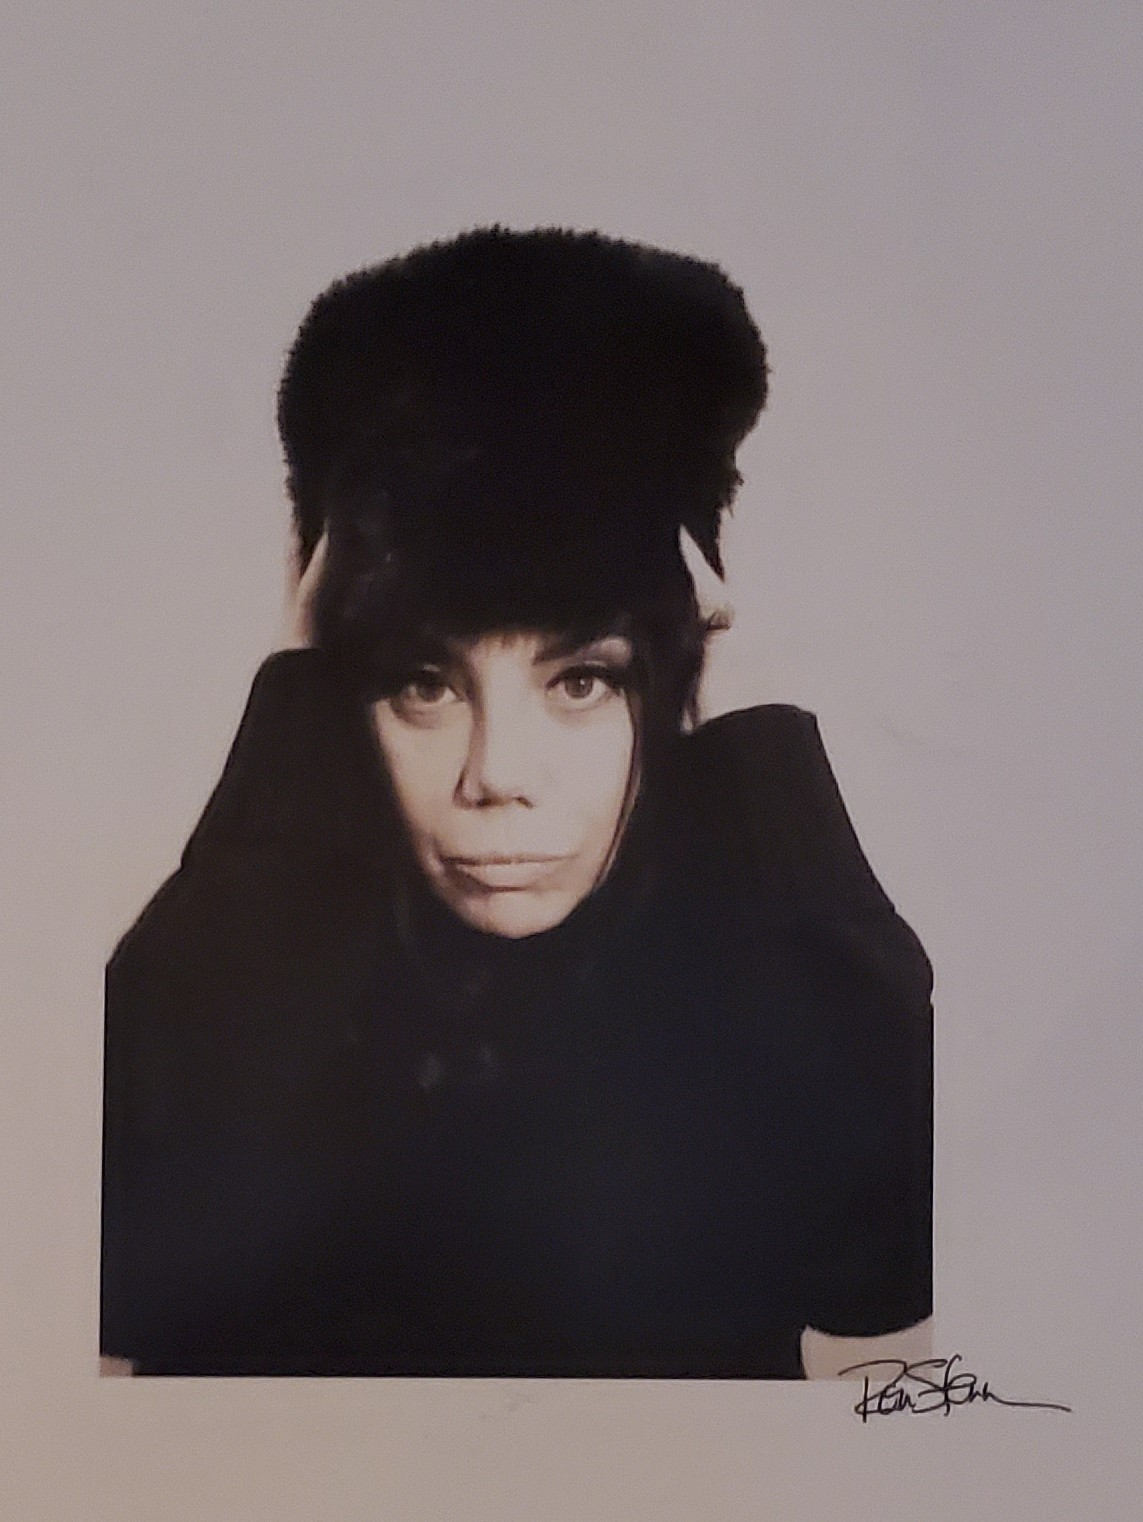
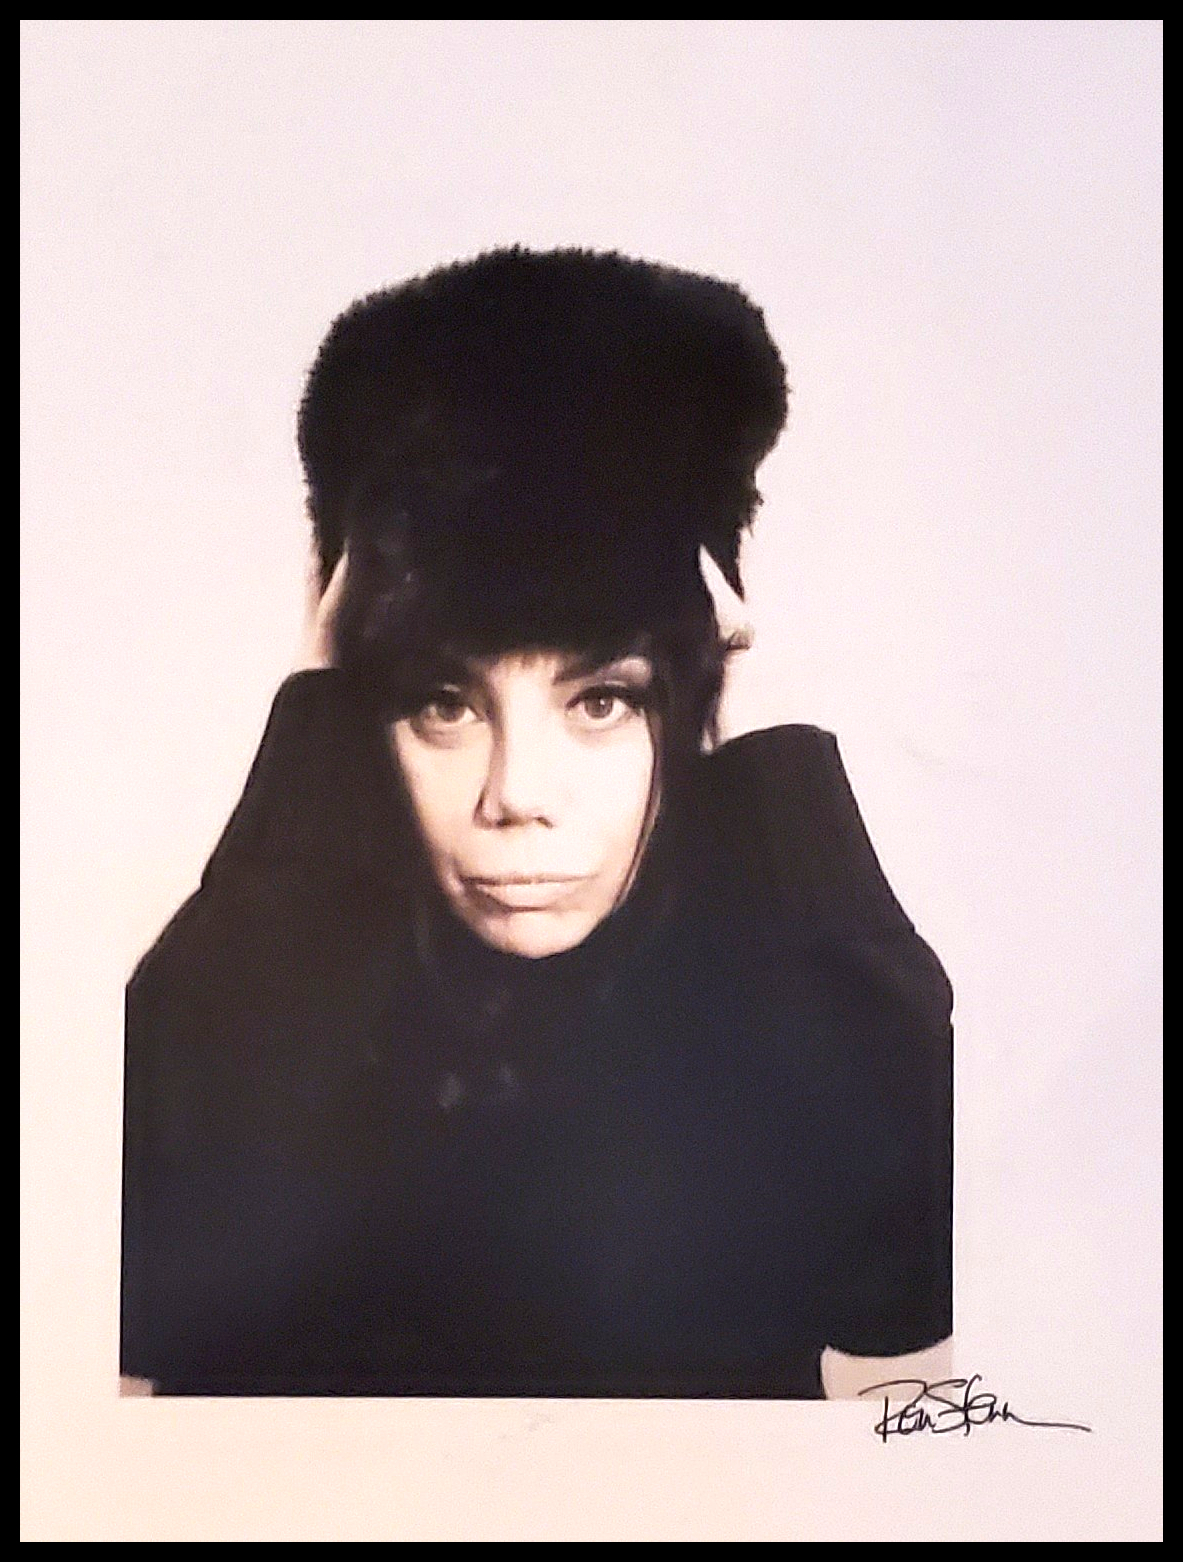
Adjusted white balance/contrast on Mel's cossack photo, changed some transition timings per Ron's email

diff --git a/settings.js b/settings.js
@@ -43,7 +43,7 @@ let DEFAULT_PHOTO_DURATION = 250;
 
 let DEFAULT_PHOTO_TRANSITION_SPEED = 10;
 //How long is the text visible? Note: should be less than photoDuration
-let textTimingOffset = -95;
+let textTimingOffset = -45;
 
 //Pixels between each photo and text
 const textBuffer = 100;
@@ -261,9 +261,9 @@ const image = {
             "y": 0,
             "transitionInIsComplete": false,
             "transitionOutIsComplete": false,
-            "transitionSpeed": DEFAULT_PHOTO_TRANSITION_SPEED / 2,
+            "transitionSpeed": DEFAULT_PHOTO_TRANSITION_SPEED / 1.5,
             "finalPosition": [canvas.slideshow.width, 0],
-        	"duration": 267,
+        	"duration": 235,
 			"hasText": true,
 			"textOnRight": true,
 			"extraWide": true,
@@ -333,8 +333,9 @@ const image = {
 			"hasText": true,
 			"textOnRight": false,
 			"extraWide": false,
-			"fullScreen": false,
-            "centered": false,
+			"extraTall": true,
+			"fullScreen": true,
+            "centered": true,
 			"hasCaption": false,
 			"captionID": "",
         },
@@ -355,7 +356,9 @@ const image = {
 			"hasText": false,
 			"textOnRight": true,
 			"extraWide": false,
-			"fullScreen": false,
+			"extraTall": true,
+			"fullScreen": true,
+			"centered": true,
 			"hasCaption": false,
 			"captionID": "",
         },

diff --git a/animate.js b/animate.js
@@ -130,9 +130,15 @@ function slideShow()
 				photo.drawWidth = photo.photo.width/(photo.photo.height/canvas.slideshow.height);
 
 			} else {
-				photo.drawWidth = canvas.slideshow.width;
-           		photo.drawHeight = photo.photo.height/(photo.photo.width/canvas.slideshow.width);
-        	};
+				if (photo.extraTall === true)
+				{
+					photo.drawHeight = canvas.slideshow.height;
+				photo.drawWidth = photo.photo.width/(photo.photo.height/canvas.slideshow.height);
+				} else {
+					photo.drawWidth = canvas.slideshow.width;
+           			photo.drawHeight = photo.photo.height/(photo.photo.width/canvas.slideshow.width);
+        		};
+			};
 		} else {
         	if (photo.fullScreen === true)
 			{
